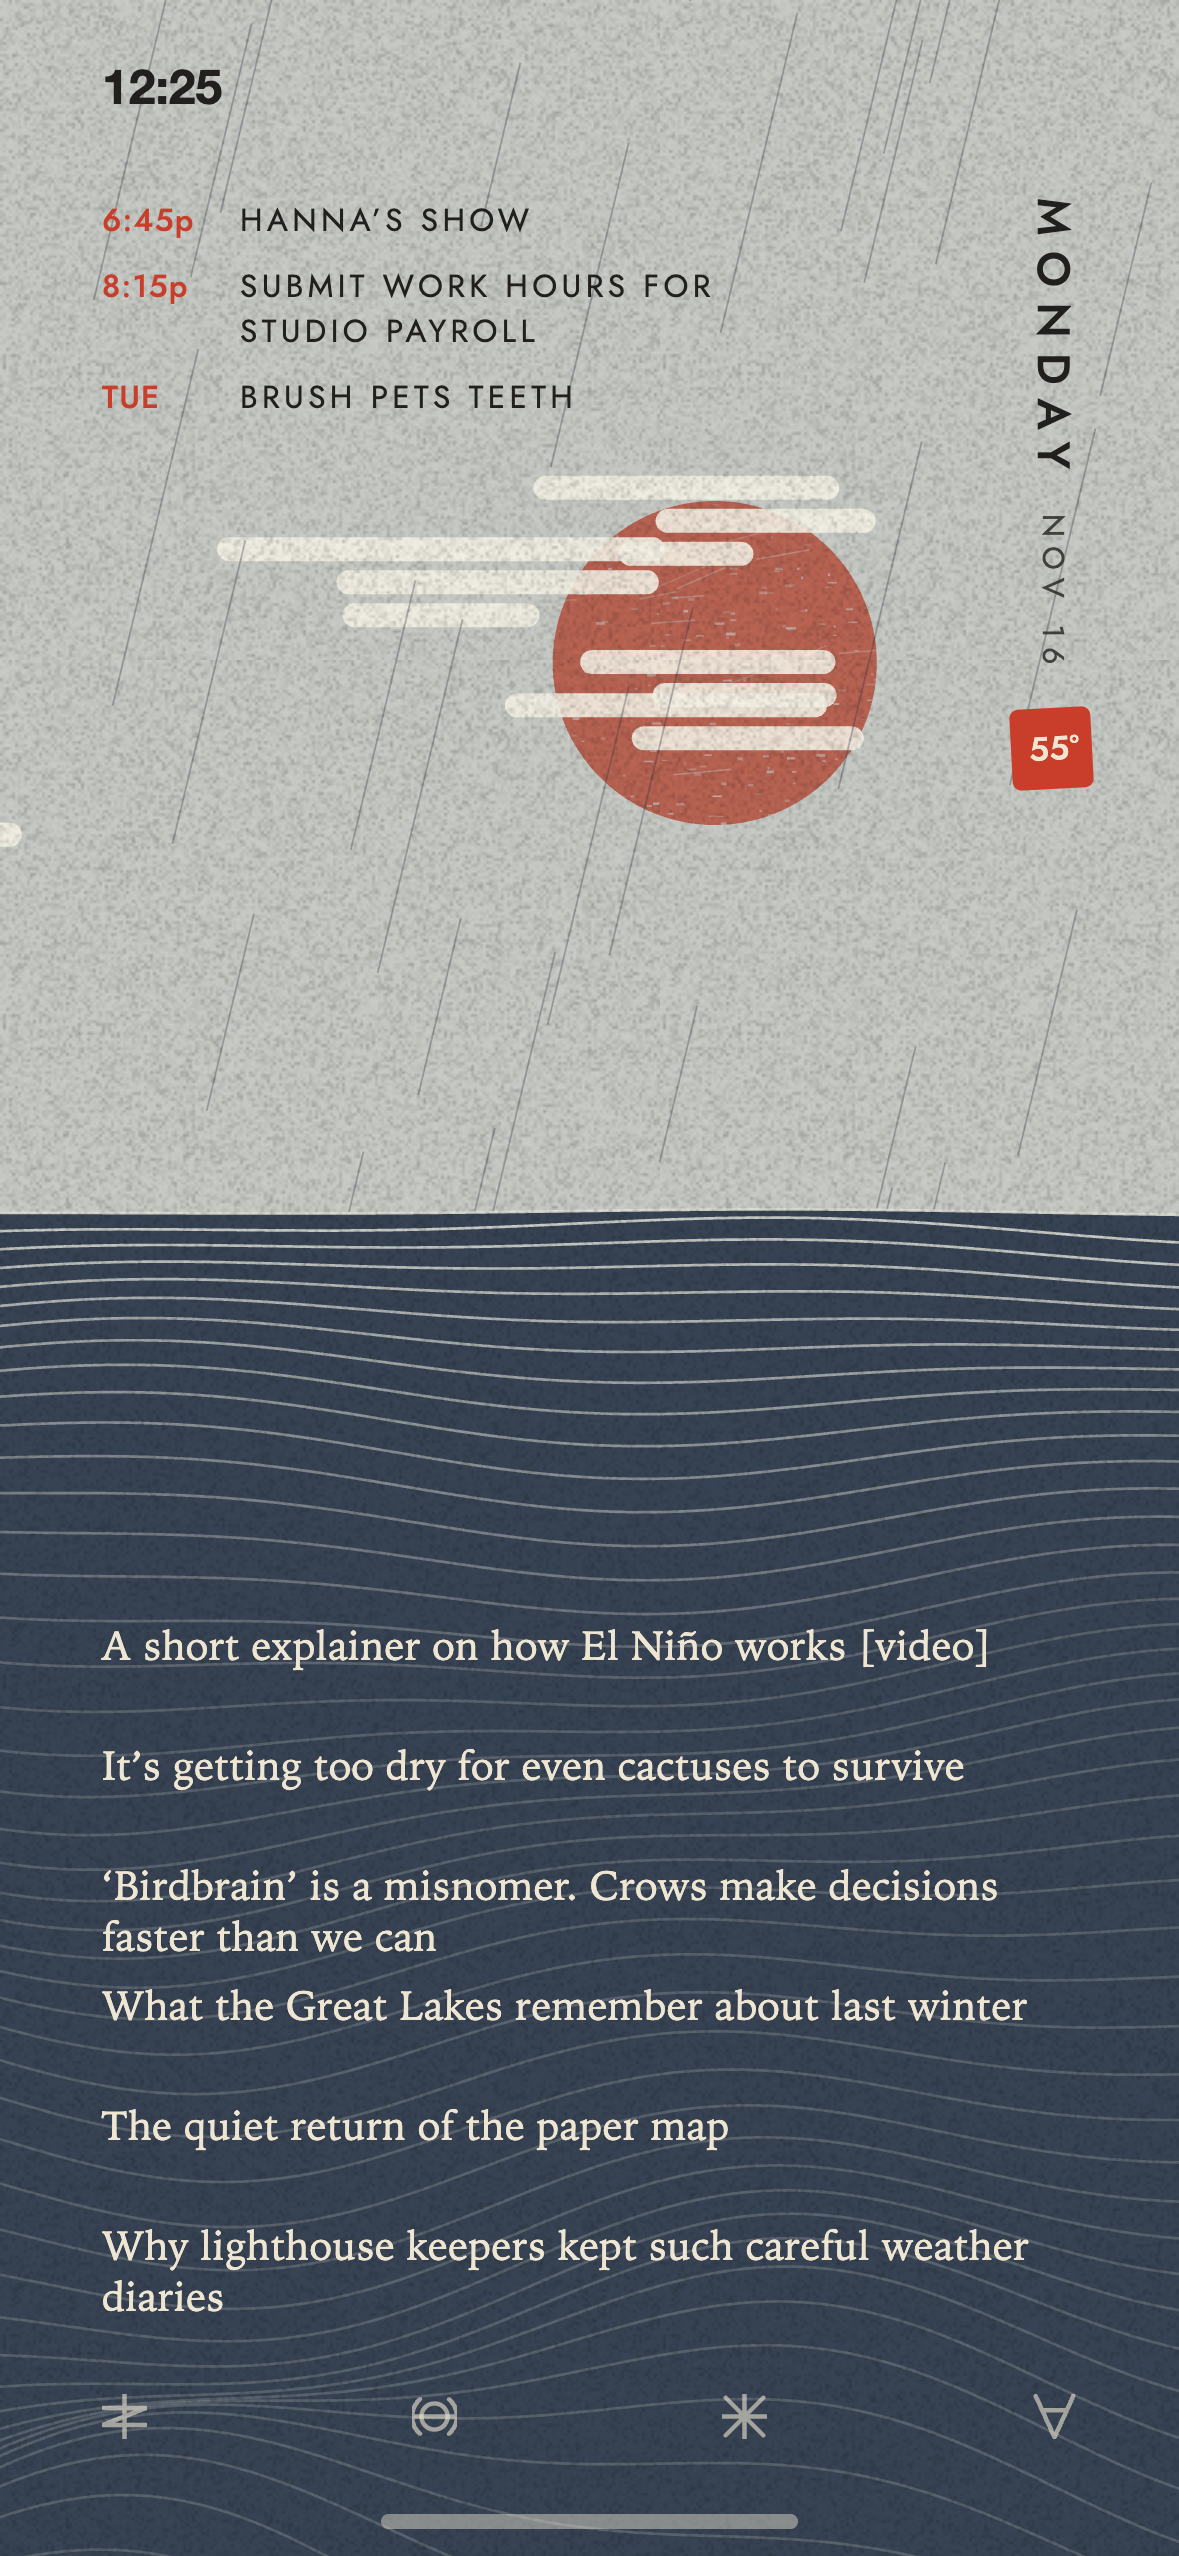
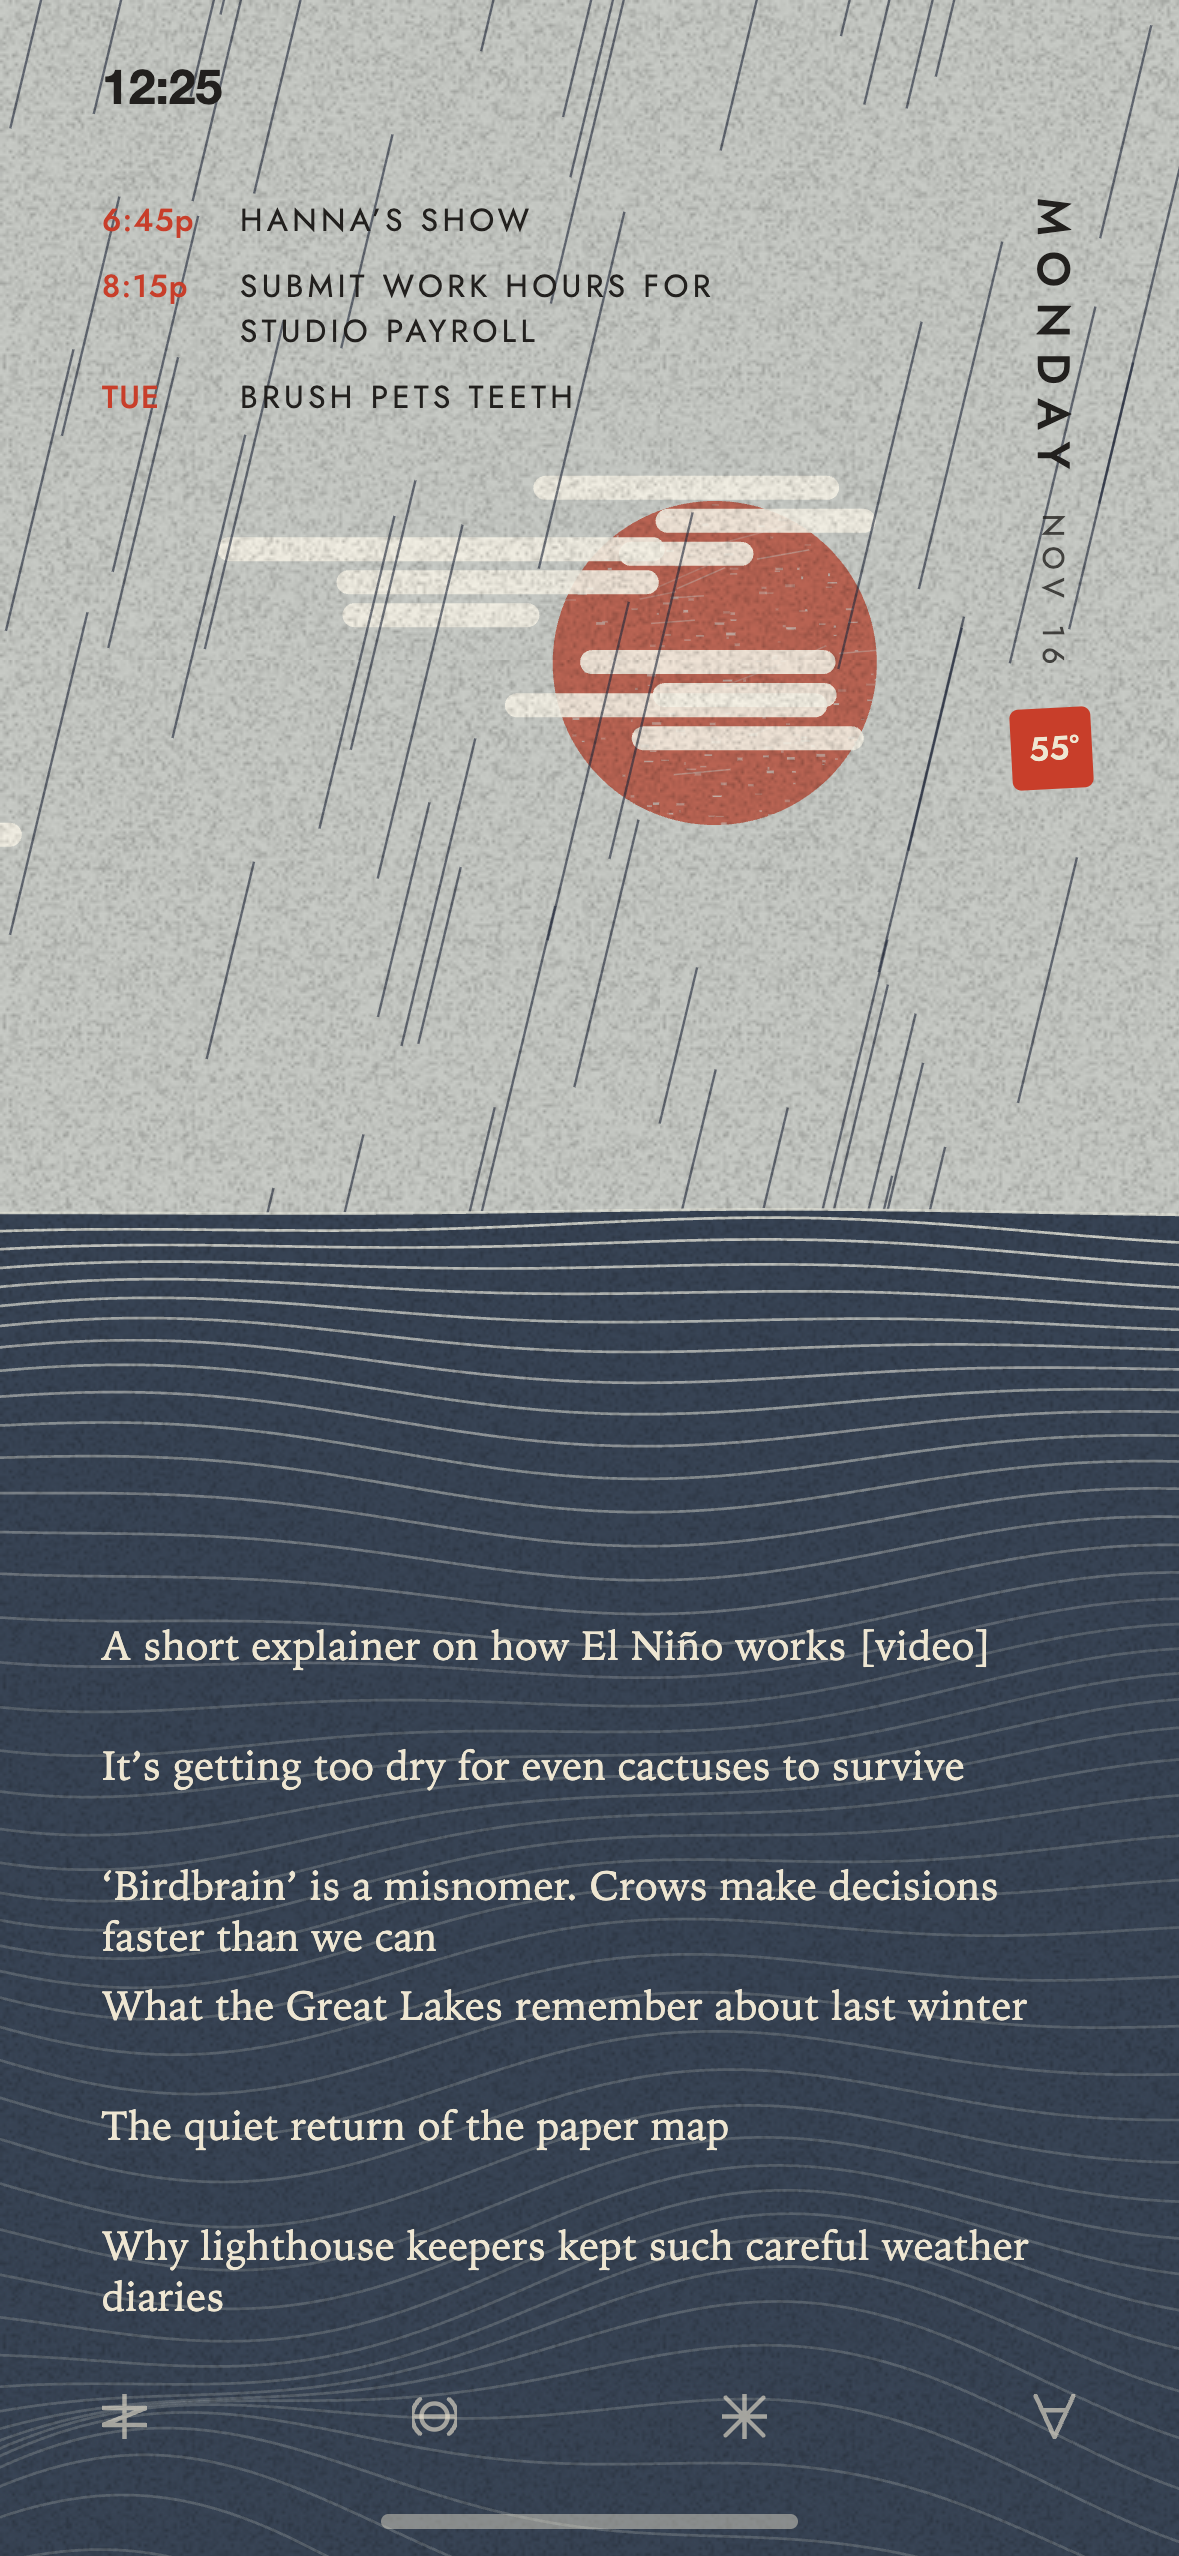
[#124] design-ideas/v10-simplify: rain and snow read at a glance; stills re-rendered

diff --git a/design-ideas/v10-simplify/index.html b/design-ideas/v10-simplify/index.html
@@ -116,7 +116,7 @@ const LOOK = {
   sunset:  { paper: "234,204,182", sea: "38,48,80",  disc: "196,52,36",   line: "240,220,200", ink: "34,32,30" },
   cloudy:  { paper: "214,211,200", sea: "52,70,96",  disc: "198,84,60",   line: "232,228,214", ink: "34,32,30" },
   rain:    { paper: "200,203,200", sea: "56,68,86",  disc: "186,100,84",  line: "226,226,218", ink: "34,32,30" },
-  snow:    { paper: "206,212,216", sea: "62,80,104", disc: "200,80,58",   line: "244,244,240", ink: "34,32,30" },
+  snow:    { paper: "186,196,204", sea: "62,80,104", disc: "200,80,58",   line: "244,244,240", ink: "34,32,30" },
   dusk:    { paper: "40,54,88",    sea: "18,28,52",  disc: "238,230,210", line: "186,200,222", ink: "238,230,210", night: true },
   night:   { paper: "26,36,64",    sea: "13,21,42",  disc: "238,230,210", line: "170,188,214", ink: "238,230,210", night: true },
   full:    { paper: "32,44,76",    sea: "15,24,46",  disc: "246,240,224", line: "190,204,226", ink: "238,230,210", night: true },
@@ -150,8 +150,8 @@ const srnd = prng(1001), wrnd = prng(1002), prnd = prng(1003);
 const bits = {
   stars: list(46, () => ({ x: srnd(), y: srnd(), r: .5 + srnd() * .8, ph: srnd() * TAU })),
   mist: list(6, () => ({ x: wrnd(), y: wrnd(), w: 70 + wrnd() * 90, sp: .004 + wrnd() * .006, bars: 2 + Math.floor(wrnd() * 2), off: wrnd() * 30 })),
-  rain: list(44, () => ({ x: wrnd(), y: wrnd(), len: 50 + wrnd() * 70, sp: .5 + wrnd() * .3 })),
-  snow: list(60, () => ({ x: wrnd(), y: wrnd(), r: 1 + wrnd() * 1.8, sp: .025 + wrnd() * .03, ph: wrnd() * TAU })),
+  rain: list(80, () => ({ x: wrnd(), y: wrnd(), len: 50 + wrnd() * 70, sp: .5 + wrnd() * .3 })),
+  snow: list(90, () => ({ x: wrnd(), y: wrnd(), r: 1 + wrnd() * 1.8, sp: .025 + wrnd() * .03, ph: wrnd() * TAU })),
   /* wear on the printed disc: specks and fine scratches where the paper shows through, placed inside a unit circle */
   specks: list(170, () => { const a = prnd() * TAU, d = Math.sqrt(prnd()); return { x: d * Math.cos(a), y: d * Math.sin(a), w: .01 + prnd() * .05, h: .006 + prnd() * .012, a: .25 + prnd() * .5 }; }),
   scratches: list(12, () => { const a = prnd() * TAU, d = Math.sqrt(prnd()) * .8; return { x: d * Math.cos(a), y: d * Math.sin(a), len: .15 + prnd() * .5, ang: -.5 + prnd() * .5, a: .2 + prnd() * .3 }; }),
@@ -203,12 +203,12 @@ function draw(t) {
     }
   }
   if (state.rain) for (const p of bits.rain) {
-    const f = (p.y + t * p.sp) % 1, px = p.x * (W + 120) - 40 - f * 60, py = -60 + f * (HZ + 80);
-    ctx.strokeStyle = col("40,48,66", .32); ctx.lineWidth = .6; ctx.beginPath(); ctx.moveTo(px, py); ctx.lineTo(px - p.len * .24, py + p.len); ctx.stroke();
+    const f = (p.y + t * p.sp) % 1, px = p.x * (W + 120) - 40 - f * 60, py = -130 + f * (HZ + 150);
+    ctx.strokeStyle = col("34,42,62", .62); ctx.lineWidth = .8; ctx.beginPath(); ctx.moveTo(px, py); ctx.lineTo(px - p.len * .24, py + p.len); ctx.stroke();
   }
   if (state.snow) for (const p of bits.snow) {
-    const f = (p.y + t * p.sp) % 1, px = p.x * W + Math.sin(t * .5 + p.ph) * 6, py = 40 + f * (HZ - 30);
-    ctx.fillStyle = col("250,250,246", .95); ctx.beginPath(); ctx.arc(px, py, p.r, 0, TAU); ctx.fill();
+    const f = (p.y + t * p.sp) % 1, px = p.x * W + Math.sin(t * .5 + p.ph) * 6, py = -6 + f * (HZ + 16);
+    ctx.fillStyle = col("255,255,252", 1); ctx.beginPath(); ctx.arc(px, py, p.r * 1.25, 0, TAU); ctx.fill();
   }
   ctx.restore();
 

diff --git a/tasks/0124-design-ideas-v10-simplify-very-simplifie.md b/tasks/0124-design-ideas-v10-simplify-very-simplifie.md
@@ -1,11 +1,11 @@
 ---
 id: 124
 title: design-ideas/v10-simplify: very simplified Japanese-print-inspired version
-status: in-progress
+status: review
 owner: lead
 depends_on: []
 created: 2026-11-19T02:20:07Z
-updated: 2026-11-19T02:22:38Z
+updated: 2026-11-19T02:24:21Z
 ---
 
 ## Goal
@@ -25,3 +25,5 @@ updated: 2026-11-19T02:22:38Z
 - 2026-11-19T02:20:07Z [lead] created (todo)
 - 2026-11-19T02:20:07Z [lead] status: todo → in-progress — claimed by lead
 - 2026-11-19T02:22:38Z [lead] v10 written from scratch. 12 stills rendered at 3x, both sheets viewed; README, design-ideas/README, notes, landing page (card, thumbs, count) updated; node --check passes.
+- 2026-11-19T02:24:21Z [lead] After review: rain is darker, wider and denser; snow is whiter, larger and denser on a greyer-blue paper; both now start above the top edge. Re-rendered 12 stills; viewed clouds, rain, snow, mid-day and the landing page's second row with the v10 card.
+- 2026-11-19T02:24:21Z [lead] status: in-progress → review
